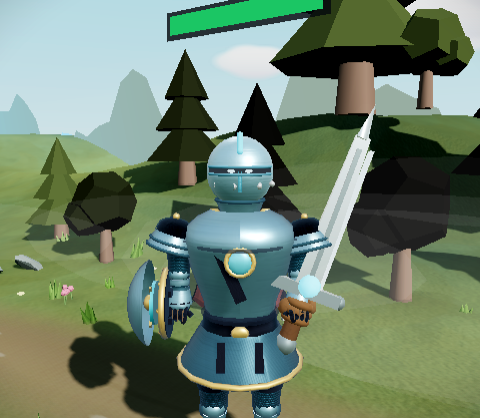
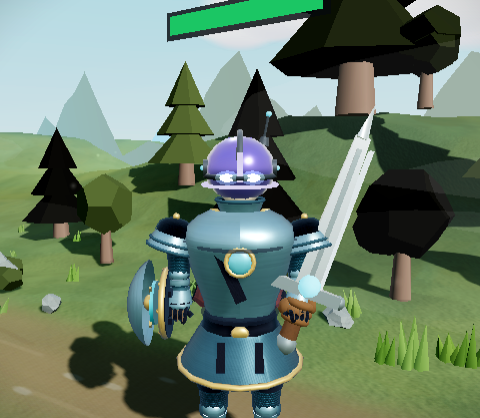
몸통 프로파일 프로브: 정규화 전제가 깨지는 조건을 주석에 명시
칼라 신설로 yTop 이 고젯(0.502)에서 칼라 상단(0.547)으로 올라가, '어깨선 비수평도'가
0.44 → 0.55 로 나빠진 것처럼 찍혔다. 어깨가 나빠진 게 아니라 분율 0.86~0.97 구간이 이제
위로 좁아지는 칼라를 가리키게 된 것이다. 몸통 상·하단을 바꾼 커밋 전후로 이 지표를
비교하지 말라는 경고를 프로브 안에 박았다.

diff --git a/web/tools/probe-torso-profile.js b/web/tools/probe-torso-profile.js
@@ -102,8 +102,13 @@ const INDEX = 'file://' + require('path').resolve(__dirname, '../index.html');
         const span = y => (lo[y] < 0 ? 0 : hi[y] - lo[y] + 1);
         // 다리·머리·팔을 숨긴 뒤의 마스크는 **몸통(스커트 밑단~고젯)** 그 자체다. 그래서 랜드마크를
         // 월드 좌표로 투영하지 않고 **몸통 정규 높이**(0 = 스커트 밑단 행, 1 = 고젯 최상단 행)로 쓴다.
-        // 이게 전후 비교에 안전한 이유: 이번 수정은 라테의 **반지름만** 바꾸고 스커트 밑단·고젯의
-        // **높이는 건드리지 않으므로** yBot/yTop 행이 고정돼 같은 분율이 같은 해부 위치를 가리킨다.
+        // 이게 전후 비교에 안전한 이유: 반지름만 바꾸는 수정은 스커트 밑단·고젯의 **높이를 안 건드리므로**
+        // yBot/yTop 행이 고정돼 같은 분율이 같은 해부 위치를 가리킨다.
+        // ⚠ 단 **몸통의 위아래 끝을 늘리는 수정은 이 전제를 깬다.** 2026-08-18 에 스탠딩 고젯 칼라를
+        //    넣어 yTop 이 고젯(0.502)에서 칼라 상단(0.547)으로 올라갔고, 그 바람에 '어깨선 비수평도'가
+        //    0.44 → 0.55 로 나빠진 것처럼 찍혔다 — 어깨가 나빠진 게 아니라 분율 0.86~0.97 구간이
+        //    이제 **칼라(위로 좁아지는 파츠)** 를 가리키게 된 것이다. 몸통 상·하단을 바꾼 커밋 전후로는
+        //    이 지표를 비교하지 말고, 비교하려면 같은 코드에서 칼라를 끄고 재라.
         // (반대로 캐릭터 전체 바운딩 박스로 정규화하면 팔·망토 가시성에 따라 기준이 흔들린다.)
         // ⚠ 마스크에는 **지면에 드리운 캐릭터 그림자**도 섞인다 — 영웅을 숨기면 그림자도 사라지므로
         //    차분에 잡힌다. 몸통과 그림자 사이에는 빈 행이 있으므로 **폭>0인 최장 연속 구간**을
